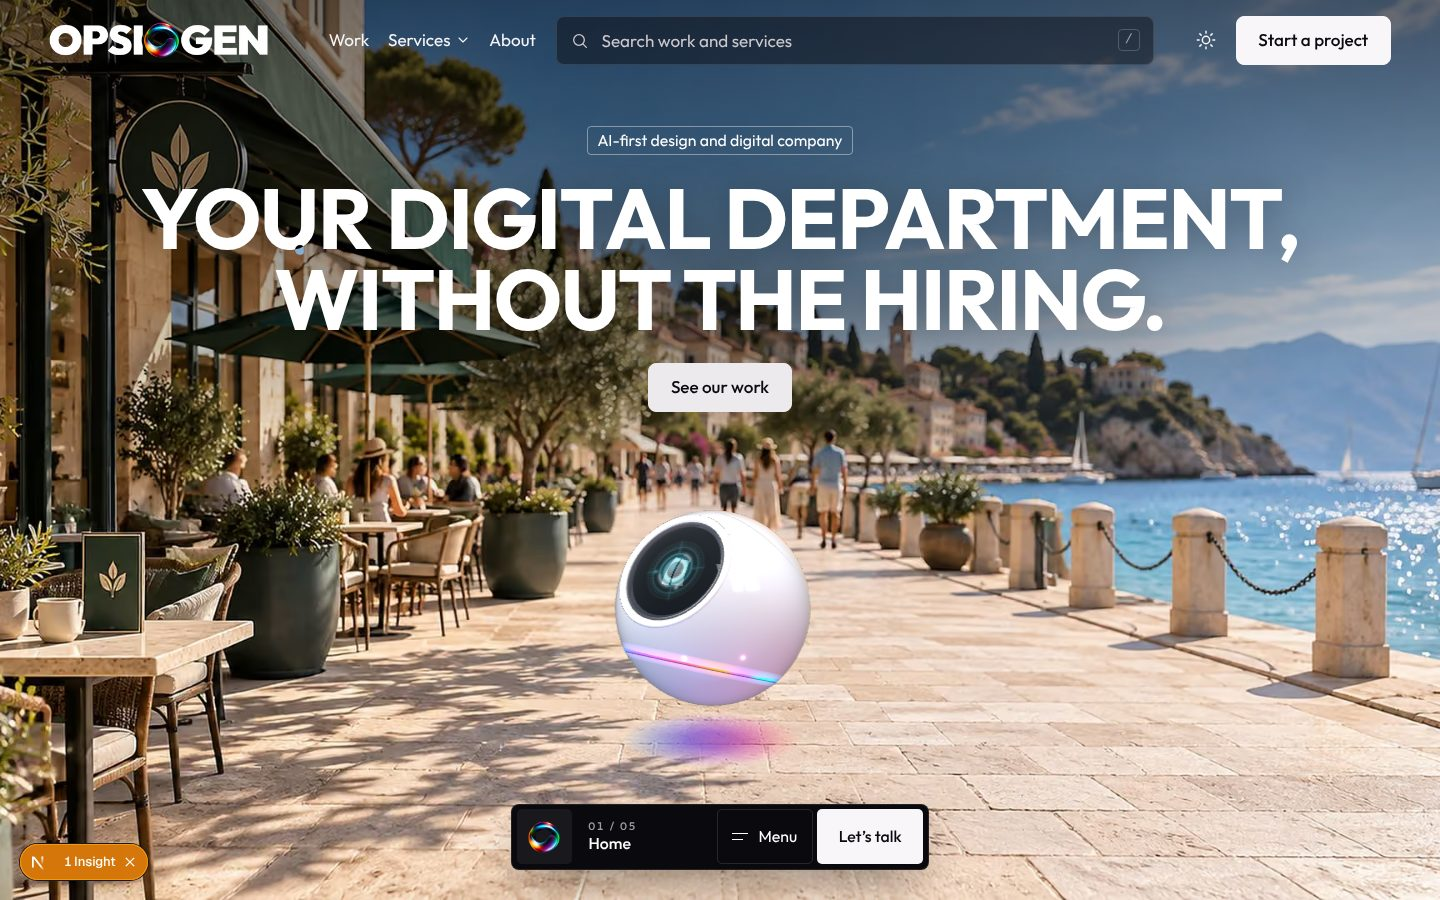
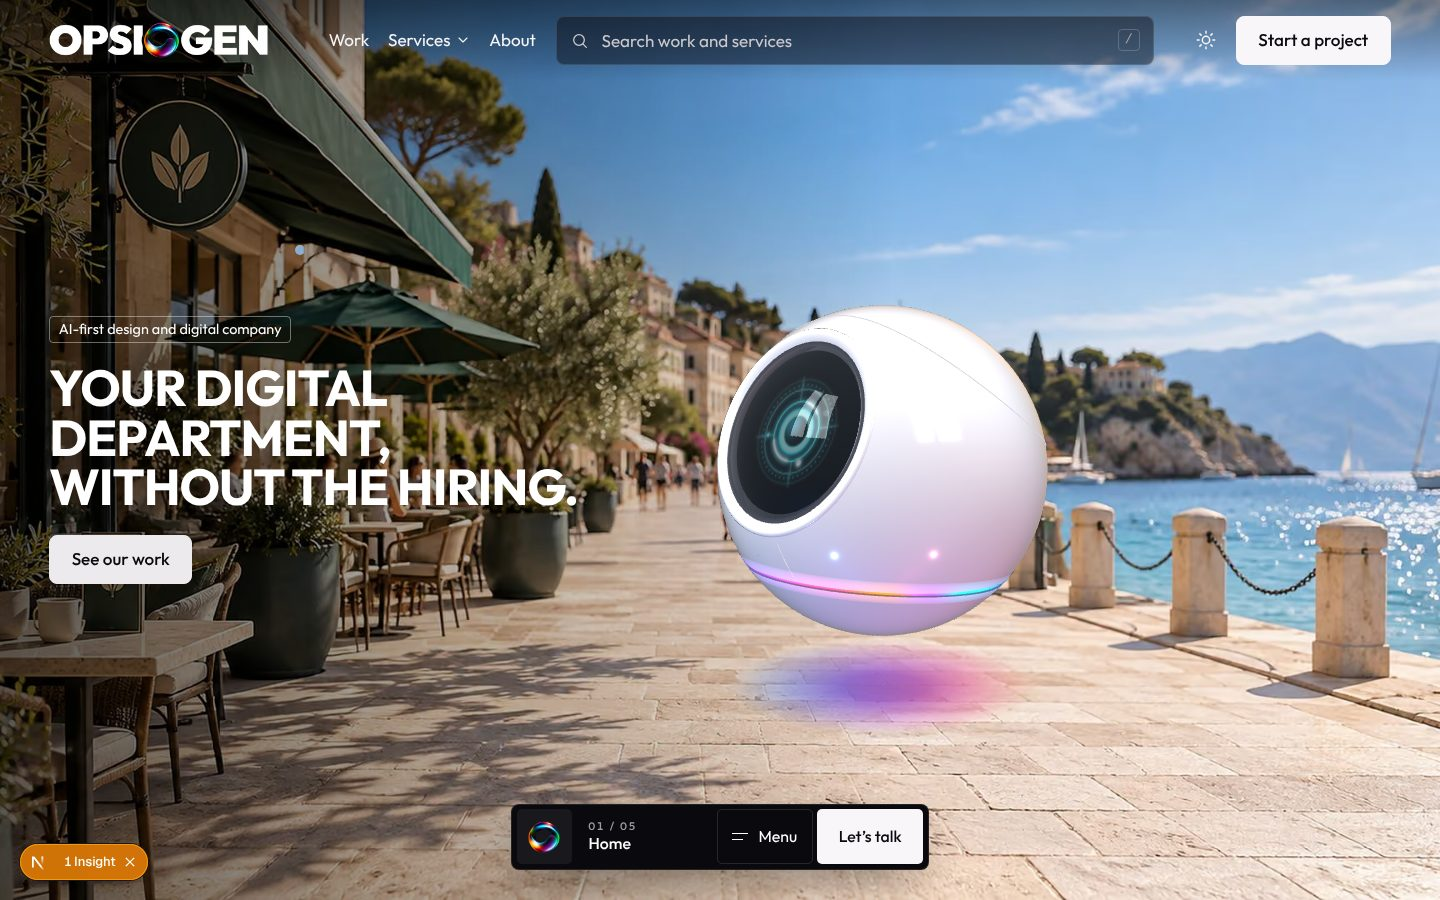
Home hero: large character with the heading beside it, the scene moves toward us on scroll
Claude-Session: https://claude.ai/code/session_011BdSE2fEeiEv9ZgoYmWAPn

diff --git a/src/components/sections/Hero.tsx b/src/components/sections/Hero.tsx
@@ -8,36 +8,60 @@ import { HeroCharacter } from "./HeroCharacter";
 const fadeOut = { opacity: "clamp(0, calc(1 - var(--hero-p, 0) * 3.2), 1)", transform: "translateY(calc(var(--hero-p, 0) * -60px))" } as React.CSSProperties;
 const fadeIn = { opacity: "clamp(0, calc((var(--hero-p, 0) - 0.42) * 3.4), 1)", transform: "translateY(calc((1 - clamp(0, calc((var(--hero-p, 0) - 0.42) * 3.4), 1)) * 40px))" } as React.CSSProperties;
 
+/** The scene grows toward its far end as the visitor scrolls, as if we follow the character into it. */
+const dolly = (extra: number) => ({ transform: `scale(calc((1 + var(--hero-p, 0) * 0.6) * ${extra}))`, transformOrigin: "56% 57%" }) as React.CSSProperties;
+const rushMask = "radial-gradient(ellipse 46% 44% at 56% 57%, transparent 30%, #000 100%)";
+
 /**
- * Home: the scene holds still for a short scroll. The big heading sits in the middle with our character below it;
- * as the visitor scrolls, the heading fades, the character flies off down the road toward the sun with its light
- * trail, and one line about what we do fades in. Then the page carries on.
+ * Home: the first stop of the journey holds still for a short scroll. Our character floats in the middle, large,
+ * with the heading small beside it (above it on phones). As the visitor scrolls, the character turns its back and
+ * flies into the scene: the picture moves toward us and streaks at the edges while it is fast, the heading fades
+ * and one line about what we do takes its place. Then the page carries on.
  */
 function HeroJourney({ section, image, children }: { section: HeroSection; image: HeroImage; children?: React.ReactNode }) {
+  const words = "absolute inset-x-0 top-[calc(var(--header-h)+5svh)] px-gutter md:top-0 md:right-auto md:flex md:h-full md:w-[46vw] md:items-center";
   return (
     <>
-      <div data-hero-stage className="hero-picture hero-picture-dark on-dark relative -mt-[var(--header-h)] h-[190svh] bg-night text-white">
+      <div data-hero-stage className="hero-picture hero-picture-dark on-dark relative -mt-[var(--header-h)] h-[220svh] bg-night text-white">
         <div className="sticky top-0 h-[100svh] min-h-[560px] overflow-hidden">
-          <Media image={image.image} phone={image.phone} sizes="100vw" priority />
-          <div aria-hidden="true" className="pointer-events-none absolute inset-x-0 top-0 h-[55%] bg-gradient-to-b from-black/55 via-black/25 to-transparent" />
-          <div aria-hidden="true" className="pointer-events-none absolute inset-0 bg-[radial-gradient(ellipse_62%_38%_at_50%_30%,rgb(0_0_0/0.34),transparent_75%)]" />
-          <div style={fadeOut} className="absolute inset-x-0 top-[calc(var(--header-h)+6svh)] flex flex-col items-center px-gutter text-center md:top-[calc(var(--header-h)+5svh)]">
-            {section.label && (
-              <p className="mb-[clamp(14px,1.6vw,24px)] rounded-[4px] border border-white/40 px-[0.6em] py-[0.15em] text-[clamp(13px,1.1vw,17px)]">{section.label}</p>
-            )}
-            <h1 className="max-w-[24ch] text-[length:clamp(32px,min(5.9vw,10svh),100px)] leading-[0.95] font-bold tracking-[-0.02em] text-balance uppercase [text-shadow:0_2px_30px_rgb(0_0_0/0.25)]">
-              {section.heading}
-            </h1>
-            {section.button?.href && section.button.label && (
-              <ButtonLink href={section.button.href} variant="light" className="mt-[clamp(18px,2.6svh,32px)]">
-                {section.button.label}
-              </ButtonLink>
-            )}
+          <div className="absolute inset-0 will-change-transform" style={dolly(1)}>
+            <Media image={image.image} phone={image.phone} sizes="100vw" priority />
+          </div>
+          {/* Speed streaks: the same picture again, a little larger, at the edges only. The character code fills and shows them while it flies fast. */}
+          {[1.05, 1.11].map((k) => (
+            <div
+              key={k}
+              data-hero-rush
+              data-wide={image.image.url}
+              data-narrow={image.phone?.url}
+              aria-hidden="true"
+              className="pointer-events-none absolute inset-0 bg-cover bg-center opacity-0 will-change-[transform,opacity]"
+              style={{ ...dolly(k), maskImage: rushMask, WebkitMaskImage: rushMask }}
+            />
+          ))}
+          <div aria-hidden="true" className="pointer-events-none absolute inset-x-0 top-0 h-[55%] bg-gradient-to-b from-black/60 via-black/25 to-transparent md:h-40 md:from-black/45 md:via-transparent" />
+          <div aria-hidden="true" className="pointer-events-none absolute inset-y-0 left-0 hidden w-[62%] bg-gradient-to-r from-black/65 via-black/30 to-transparent md:block" />
+          <div className={words}>
+            <div style={fadeOut} className="flex flex-col items-center text-center md:items-start md:text-left">
+              {section.label && (
+                <p className="mb-[clamp(14px,1.4vw,22px)] rounded-[4px] border border-white/40 px-[0.6em] py-[0.15em] text-[clamp(13px,1vw,16px)]">{section.label}</p>
+              )}
+              <h1 className="max-w-[19ch] text-[length:clamp(30px,8.4vw,44px)] leading-[0.98] font-bold tracking-[-0.02em] uppercase [text-shadow:0_2px_30px_rgb(0_0_0/0.3)] md:text-[length:clamp(36px,min(3.5vw,6.6svh),64px)]">
+                {section.heading}
+              </h1>
+              {section.button?.href && section.button.label && (
+                <ButtonLink href={section.button.href} variant="light" className="mt-[clamp(18px,2.6svh,32px)]">
+                  {section.button.label}
+                </ButtonLink>
+              )}
+            </div>
           </div>
           {image.after && (
-            <p style={fadeIn} className="pointer-events-none absolute inset-x-0 top-[calc(var(--header-h)+6svh)] mx-auto max-w-[24ch] px-gutter text-center text-[length:clamp(30px,min(4.6vw,8svh),76px)] leading-[1.02] font-bold tracking-[-0.02em] text-balance [text-shadow:0_2px_30px_rgb(0_0_0/0.3)]">
-              {image.after}
-            </p>
+            <div className={`pointer-events-none ${words}`}>
+              <p style={fadeIn} className="mx-auto max-w-[19ch] text-center text-[length:clamp(28px,7.6vw,40px)] leading-[1.04] font-bold tracking-[-0.02em] text-balance [text-shadow:0_2px_30px_rgb(0_0_0/0.3)] md:mx-0 md:text-left md:text-[length:clamp(34px,min(3.3vw,6.2svh),60px)]">
+                {image.after}
+              </p>
+            </div>
           )}
           <HeroCharacter />
         </div>

diff --git a/src/components/sections/HeroCharacter.tsx b/src/components/sections/HeroCharacter.tsx
@@ -52,6 +52,12 @@ export function HeroCharacter() {
     };
     const onScroll = () => { const y = window.scrollY; speed += Math.abs(y - lastY); lastY = y; measure(); };
     measure();
+    // The speed streaks at the edges of the picture: filled in only once the page has loaded.
+    const rush = stage ? Array.from(stage.querySelectorAll<HTMLElement>("[data-hero-rush]")) : [];
+    const fillRush = () => {
+      const narrow = window.matchMedia("(max-width: 639px)").matches;
+      for (const r of rush) { const u = (narrow && r.dataset.narrow) || r.dataset.wide; if (u) r.style.backgroundImage = `url("${u}")`; }
+    };
 
     // The pointer
     let want = [0, 0], hello = -10, blink = 0, blinkAt = 2, over = 0;
@@ -72,6 +78,7 @@ export function HeroCharacter() {
 
     async function start() {
       if (stop) return;
+      if (!reduce) fillRush();
       const THREE = await import("three");
       const { GLTFLoader } = await import("three/examples/jsm/loaders/GLTFLoader.js");
       if (stop) return;
@@ -142,7 +149,7 @@ export function HeroCharacter() {
       cleanup = () => { window.removeEventListener("resize", fit); gl.dispose(); };
 
       // A quick, springy turn: it follows the pointer at once and settles without wobbling.
-      const AWAY = 1.3;                                                      // turned to fly off into the scene, its back to the visitor
+      const AWAY = 2.25;                                                     // turned to fly off into the scene, its back to the visitor
       let yaw = 0, yawV = 0, pitch = 0, pitchV = 0, lean = [0, 0], grow = 0, flyX = 0, prev = performance.now();
       const frame = (now: number) => {
         if (stop) return;
@@ -162,18 +169,19 @@ export function HeroCharacter() {
         const ph = 1 - blink, dim = blink <= 0 ? 0 : ph < 0.3 ? ph / 0.3 : ph < 0.5 ? 1 : Math.max(0, 1 - (ph - 0.5) / 0.12);
         const fl = blink > 0 && ph > 0.55 ? Math.sin(((ph - 0.55) / 0.45) * Math.PI) : 0;
         grow += ((over && away < 0.1 ? 1 : 0) - grow) * (1 - Math.pow(0.0001, dt));
-        // It flies off into the scene: up toward the far end of the promenade, smaller as it goes.
+        // It flies into the scene and we follow close behind: it draws a little ahead while the picture moves toward us.
         flyX += (progress - flyX) * (1 - Math.pow(0.0005, dt));
-        const fx = flyX * window.innerWidth * 0.06, fy = -flyX * window.innerHeight * 0.12, fs = 1 - flyX * 0.45;
+        const fx = 0, fy = -flyX * window.innerHeight * 0.04, fs = 1 - flyX * 0.3;
         const bob = reduce ? 0 : Math.sin(t * 1.7) * 5, hop = since < 0.45 ? -Math.sin((since / 0.45) * Math.PI) * 18 : 0;
         el.style.transform = `translate(${(fx + lean[0] * 10 * (1 - away)).toFixed(1)}px,${(fy + bob + hop + lean[1] * 6 * (1 - away)).toFixed(1)}px) scale(${((1 + grow * 0.06) * fs).toFixed(3)})`;
         // The trail shows only while it flies fast, longer the faster it goes. It keeps its size as the character shrinks.
         tr.style.opacity = (clamp((v - 0.08) / 0.4, 0, 1) * clamp(away * 3, 0, 1) * 0.92).toFixed(3);
-        tr.style.transform = `translateY(-50%) rotate(-24deg) scale(${((0.55 + v * 0.5) / fs).toFixed(3)},${((0.85 + v * 0.2) / fs).toFixed(3)})`;
+        tr.style.transform = `translateY(-50%) rotate(-56deg) scale(${((0.55 + v * 0.5) / fs).toFixed(3)},${((0.85 + v * 0.2) / fs).toFixed(3)})`;
         // The pool of light on the ground: it stays put while the character bobs and hops above it, and breathes a little.
         const lift = (bob + hop) / Math.max(1, el.offsetWidth);
         gw.style.opacity = (0.86 - Math.min(0.3, -hop / 60) + (reduce ? 0 : Math.sin(t * 1.7) * 0.06)).toFixed(3);
         gw.style.transform = `translateY(${(-(bob + hop)).toFixed(1)}px) scale(${(1 + lift * 0.6).toFixed(3)})`;
+        for (const r of rush) r.style.opacity = (clamp((v - 0.05) / 0.5, 0, 1) * 0.55).toFixed(3);
         fit();
         pivot.rotation.y = yaw + twirl; pivot.rotation.x = pitch; pivot.rotation.z = -lean[0] * 0.08 * (1 - away) - away * 0.1;
         if (hud && hudMat) {
@@ -209,7 +217,7 @@ export function HeroCharacter() {
       ref={box}
       type="button"
       aria-label="Our character. Press to say hello."
-      className="absolute top-[56%] left-[calc(50%-var(--w)/2)] block aspect-square w-[var(--w)] cursor-pointer rounded-full outline-offset-4 will-change-transform [--w:clamp(130px,38vw,190px)] [-webkit-tap-highlight-color:transparent] md:top-[56%] md:[--w:clamp(170px,min(16vw,28svh),280px)]"
+      className="absolute top-[calc(64%-var(--w)/2)] left-[calc(50%-var(--w)/2)] block aspect-square w-[var(--w)] cursor-pointer rounded-full outline-offset-4 will-change-transform [--w:clamp(150px,46vw,230px)] [-webkit-tap-highlight-color:transparent] md:top-[calc(53%-var(--w)/2)] md:left-[calc(62%-var(--w)/2)] md:[--w:clamp(240px,min(27vw,44svh),460px)]"
     >
       {/* The trail starts at its back and fans out down and to the left, toward the visitor. */}
       <span ref={trail} aria-hidden="true" className="pointer-events-none absolute top-1/2 right-1/2 -z-10 h-[210%] w-[min(95vw,1300px)] opacity-0 blur-[clamp(6px,0.8vw,14px)]" style={TRAIL} />

diff --git a/LAUNCH-CHECKLIST.md b/LAUNCH-CHECKLIST.md
@@ -46,7 +46,7 @@ Tick items as they are done.
 - [ ] Character built as a real 3D model and approved by the owner (17 Nov): `design/hero/character/model` (built by `build.py`), drawn live in `design/hero/orb-proto` (`page.html` is the source, `make.py` builds `index.html`). Still to do before it goes on the site: slim the model file (about 2.4 MB now) and load it after the first screen.
 - [ ] Scroll script and scene plan for the journey, waiting for the owner's yes: `design/hero/journey-script` (the launch day of our own electric supercar, through six outdoor stops; the owner chose the car on 17 Nov, a low wedge supercar of our own design, no real maker; travel legs blur with speed and the light tail uses our colours only). Order of work is in the plan: the journey in plain colours first (no credits), then the booth stop for real.
 - [ ] The car for the journey (17 Nov): 3D model built by us in `design/hero/car/model` (`build.py`) under the working name Vaelo (name not yet checked against trademarks). The owner first asked for a Lamborghini-type wedge, found the hand-built wedge did not look real, then shared a soft concept-car picture as the idea; the model is now one smooth pearl body with a glass canopy, wheels ringed with light and a light blade in our colours (`design/hero/car/hero.jpg`). The reference is another designer's concept, used for mood only, never copied. Later the same day the owner shared an advert with a green Porsche Taycan and a serif headline and asked for that font and car: the Figma headlines now use the closest serif we are free to use (DM Serif Display); the Porsche itself cannot be our brand's car, so the owner still has to choose between our own model in that mood, an original real-looking car once image credits are back, or a licensed 3D model. Car views and the launch brand designs (brand board, build-your-car page, owner app, billboard, shelter poster, social post, show stand panels) are in Figma: https://www.figma.com/design/U7fxv5ipzHrCeX7kmJf2bv. The image credits ran out on 17 Nov (they reset on 5 Dec), so the scene pictures wait for the reset or a top-up.
-- [x] On staging now (17 Nov), until video credits arrive: the Home hero opens at stop 01 of the journey, Brand: a newly branded café on a seaside promenade (the owner asked for a brand location instead of the road; no car, so the site does not read as a car website), the centred heading in two lines, the character in the centre with a pool of coloured light on the ground below it, and our character drawn live (`src/components/sections/HeroCharacter.tsx`, model in `public/home/character.glb`, loaded after the page). The character follows the pointer quickly, hops and spins on a click, and on scroll the heading fades, the character flies off along the promenade and one line about our services fades in; a rainbow fan of light pours from its back only while it moves fast. One closing call to action on Home, tour text removed. Checked locally at 1440px and 390px only. Still to do: a real phone check, PageSpeed on the new hero, a sharper scene picture (now enlarged from 1536px), and the owner's decision on whether the later journey shows the Vaelo car at all.
+- [x] On staging now (17 Nov), until video credits arrive: the Home hero opens at stop 01 of the journey, Brand: a newly branded café on a seaside promenade (the owner asked for a brand location instead of the road; no car, so the site does not read as a car website), laid out like the owner's video reference: the character large in the middle with a pool of coloured light on the ground below it, the heading small on the left in three lines (above the character on phones), and our character drawn live (`src/components/sections/HeroCharacter.tsx`, model in `public/home/character.glb`, loaded after the page). The character follows the pointer quickly, hops and spins on a click, and on scroll the heading fades, the character turns its back and flies into the scene while the picture moves toward us and streaks at the edges, and one line about our services takes the heading's place; a rainbow fan of light pours from its back only while it moves fast. One closing call to action on Home, tour text removed. Checked locally at 1440px and 390px only. Still to do: a real phone check, PageSpeed on the new hero, a sharper scene picture (now enlarged from 1536px), and the owner's decision on whether the later journey shows the Vaelo car at all.
 - Home today shows the trial picture of the glass studio (day in the light theme, night in the dark theme).
 
 ## Already done (4 November 2026)
